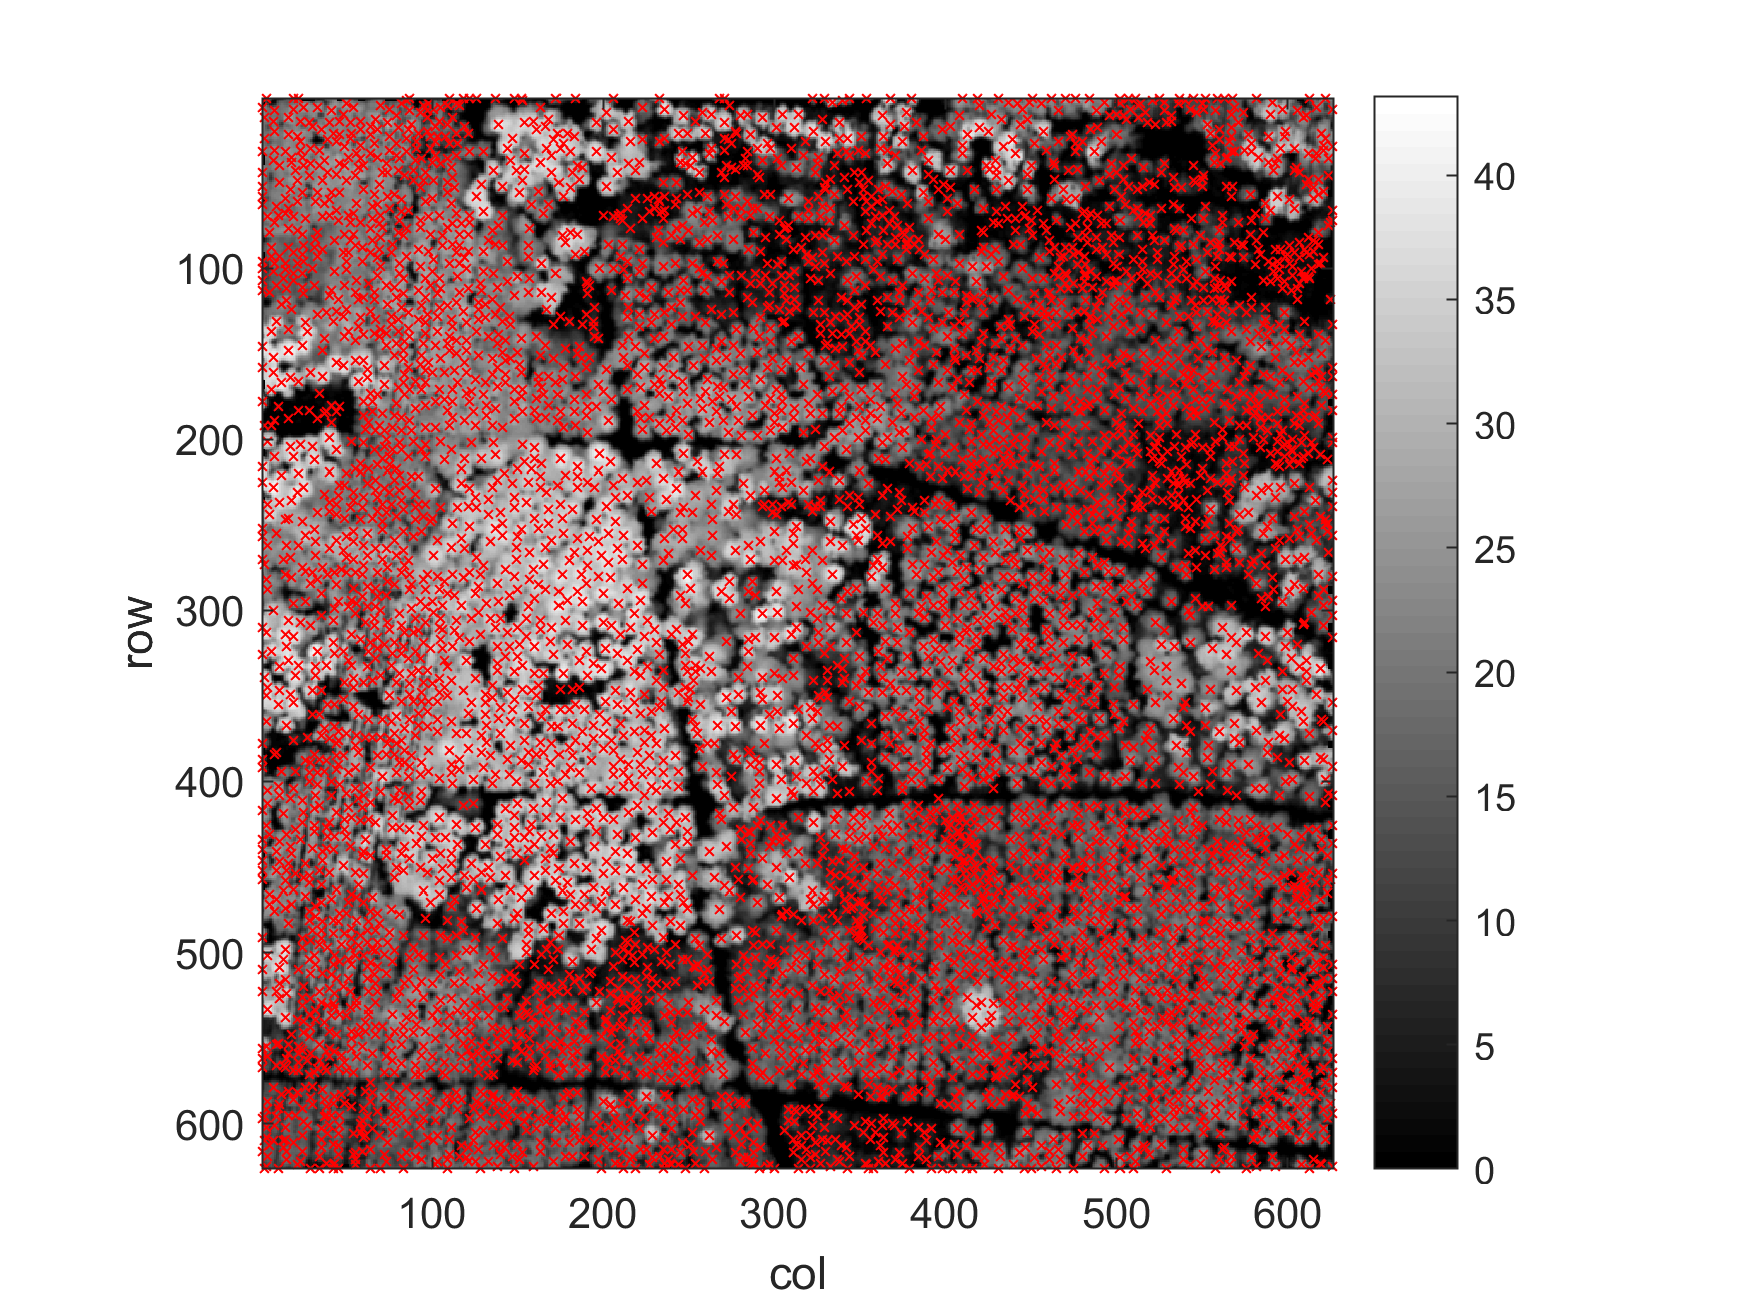
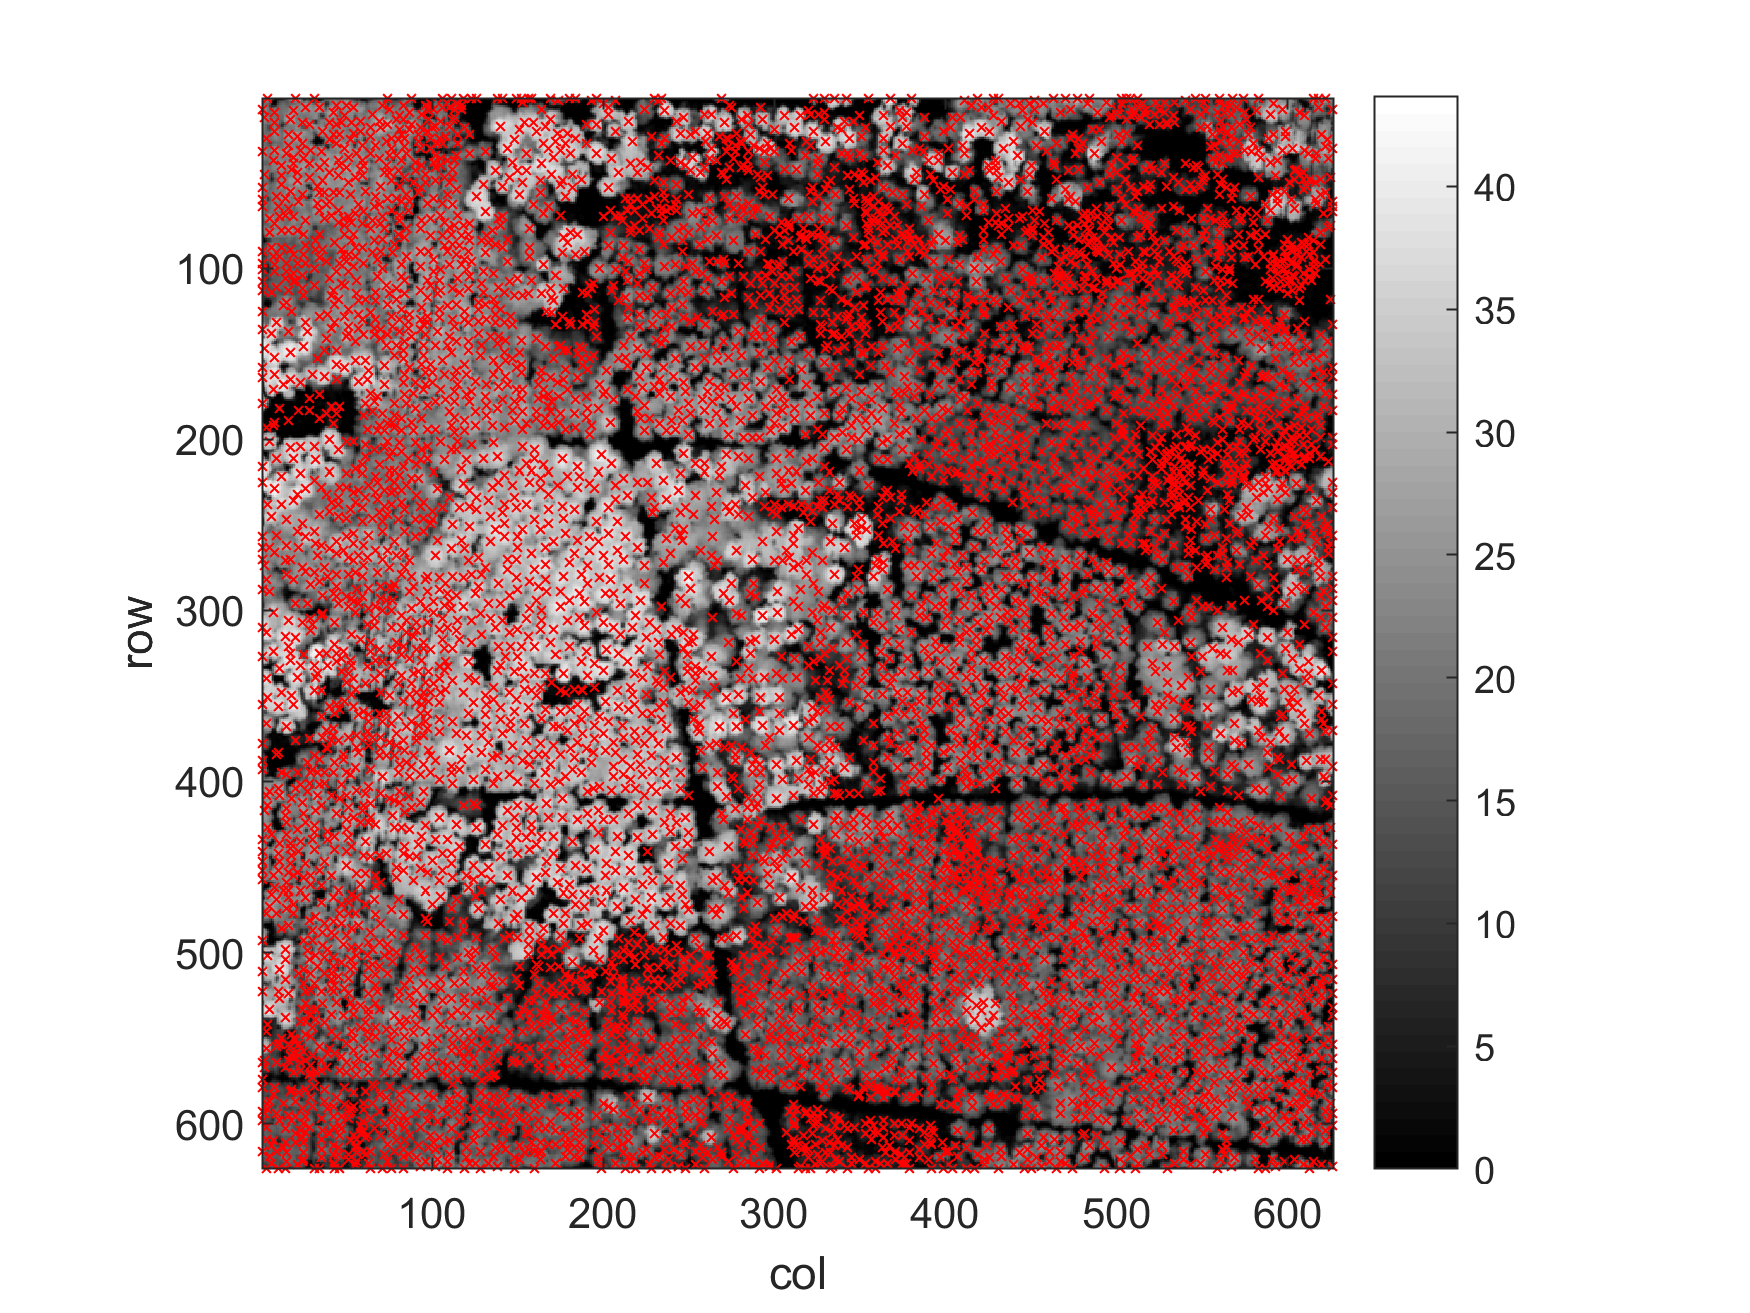
Updated tutorial 2 webpage

diff --git a/tutorial-2.html b/tutorial-2.html
@@ -34,7 +34,7 @@
             <br>
             <hr>
             <p style="text-align: center"><i class="fa fa-info-circle fa-2x" aria-hidden="true"></i></p>
-            <p style="text-align: center"><b>Last update: March 29, 2018 / Matlab r2017b, GNU Octave 4.2.1</b></p>
+            <p style="text-align: center"><b>Last update: April 20, 2018 / Matlab r2017b, GNU Octave 4.2.2</b></p>
             <p> In this tutorial, you will learn how to detect individual tree crowns from a raster Canopy Height Model (CHM) using marker controlled watershed segmentation. Before starting, you should:</p>
 
             <ol>
@@ -117,14 +117,14 @@
             <p>We now build 0.8 m resolution raster elevation models from the classified 3D point cloud using <code>elevationModels()</code>:</p>
 
 
-            <pre><code>cellResolution = 0.8;
+            <pre><code>cellSize = 0.8;
 [models, refmat] = elevationModels([pc.record.x, pc.record.y, pc.record.z], ...
     pc.record.classification, ...
     'classTerrain', [2], ...
     'classSurface', [4,5], ...
-    'cellResolution', cellResolution, ...
-    'closing', 5, ...
-    'smoothingFilter', fspecial('gaussian', [4, 4], 1), ...
+    'cellSize', cellSize, ...
+    'closing', inf, ...
+    'smoothingFilter', fspecial('gaussian', [3, 3], 0.8), ...
     'outputModels', {'terrain', 'surface', 'height'}, ...
     'fig', true, ...
     'verbose', true);</code></pre>
@@ -168,28 +168,16 @@
             <a id="step-4" class="anchor" href="step-4" aria-hidden="true"><span aria-hidden="true" class="octicon octicon-link"></span></a><b>Step 4</b> - Marker controlled watershed segmentation
         </h2>
 
-
-        <p>We first compute a boolean mask to exclude areas located in the 5 pixel inner margin of the CHM edge:</p>
-
-
-        <pre><code>borderMargin = 5;
-r = round(borderMargin / cellResolution);
-SE = bwdist(padarray(true, [r,r])) &lt;= r;
-SE(ceil(size(SE,1)/2), ceil(size(SE,2)/2)) = 0; % set central convolution window value to zero
-mask = imerode(padarray(models.mask, [1 1], false), SE);
-mask = mask(2:end-1,2:end-1);</code></pre>
-
-
-
         <p>Using the previously computed CHM, tree top coordinates and boolean mask, we now compute the marker controlled watershed segmentation with <code>treeWatershed()</code>:</p>
 
         <pre><code>[label_2d, colors] = treeWatershed(models.height.values, ...
     'markers', peaks_crh, ...
     'minHeight', 1, ...
-    'mask', mask, ...
+    'removeBorder', true, ...
     'fig', true, ...
     'verbose', true);</code></pre>
 
+        <p>Note that the "removeBorder" argument is set to true, to remove segments that touch the border of the image.</p>
 
         <p>The resulting label matrix should look like this:</p>
 
@@ -221,9 +209,10 @@ mask = mask(2:end-1,2:end-1);</code></pre>
         <pre><code>idxn_color = accumarray(label_2d(:)+1, colors(:), [], @(x) mode(x), nan);
 idxl_veg = ismember(pc.record.classification, [4,5]);
 
-RC = ceil([pc.record.x - refmat(3,1), pc.record.y - refmat(3,2)] / refmat(1:2,:));
-RC(:,1) = min(RC(:,1), size(label_2d,1));
-RC(:,2) = min(RC(:,2), size(label_2d,2));
+% convert map coordinates (x,y) to image coordinates (column, row)
+RC = [pc.record.x - refmat(3,1), pc.record.y - refmat(3,2)] / refmat(1:2,:);
+RC(:,1) = round(RC(:,1)); % row
+RC(:,2) = round(RC(:,2)); % column
 
 ind = sub2ind(size(label_2d), RC(:,1), RC(:,2));
 
